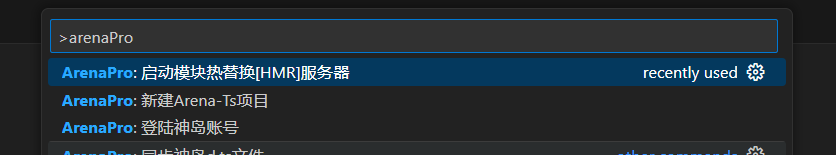
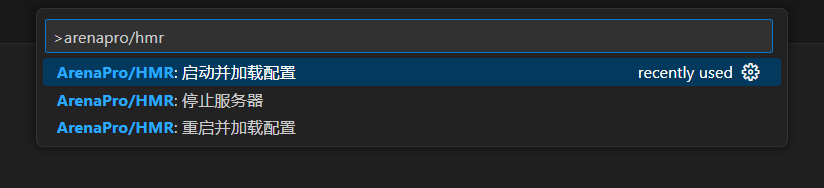
docs(arenapro): 更新文档和快捷键说明
- 在侧边导航栏中添加了单个上传 js 文件的选项
- 在 HelloWorld 指南中添加了构建上传的快捷键说明
- 更新了 HMR 服务器操作指南，明确了如何开启、重启和停止服务器
- 移除了关于重启 HMR 服务器的冗余说明

diff --git a/arenapro/bestPractices/upLoad-js.md b/arenapro/bestPractices/upLoad-js.md
@@ -1,0 +1,14 @@
+# 单个上传js文件
+由于Arena脚本编辑器是直接支持JS文件的运行的，同时为了支持小demo测试，我们特别增设了JS文件上传功能，让创作者能够跳过繁琐的编译环节，直接将当前文件上传至编辑器内使用。
+
+## 上传功能
+在项目中的`JavaScript`文件，右上角会出现上传按钮。点击即可上传，或者使用快捷键上传。
+
+快捷键：`Alt+X`
+
+![](/QQ20241027-154220.png)
+
+## 注意事项
+- 尽管插件对文件类型有所限制，但上传的文件必须严格以`.js`为后缀，否则神岛脚本编辑器可能会出现难以预料的错误，如全部文件丢失等。
+- 上传功能仅支持单个文件上传。若文件有外部引用js文件，你可以选择手动上传依赖文件，或使用[完整编译](/guide/HelloWorld/two-js)及[HMR编译](/guide/hmr)方案。
+- 点击上传按钮后，系统将直接覆盖神岛脚本编辑器内同名文件的所有代码，且不会弹出二次确认提示。因此，请确保上传的文件是所需使用的正确版本。

diff --git a/arenapro/guide/hmr.md b/arenapro/guide/hmr.md
@@ -63,21 +63,16 @@ module.exports = {
 - 在各自工作区开启HMR服务器即可，会自动判断当前工作区，自动切换到对应工作区的配置文件。
 
 
-
-## 如何开启HMR服务器
+## 如何开启/重启/停止HMR服务器
 
 在VSCode中，按下`Shift+Ctrl+P`（Windows/Linux）或 `Shift+Cmd+P`（Mac）调出`命令面板（Command Palette）`。  
   
 ![命令面板](/commd.webp)  
   
-输入`arenapro`，找到 `启动模块热替换服务器[startHMR]`选项并点击。  
+输入`arenapro`，找到 `启动并加载配置[startHMR]`选项并点击。  
 
 ![命令面板](/01734c7b-4e5f-4756-920f-2becd8133bf4.png)  
 
 开启后就可以监听到文件修改了，会自动编译，并上传到神岛。
 
 ![命令面板](/QQ20241024-163837.png)  
-
-
-## 关于重启HMR服务器说明
-当前，由于技术问题，导致无法彻底关闭HMR服务器，所以需要重启vsc编辑器，然后再次开启服务器即可。（`ctrl+shift+p`输入`reload window`）

diff --git a/arenapro/guide/HelloWorld/two-js.md b/arenapro/guide/HelloWorld/two-js.md
@@ -2,6 +2,8 @@
 ## 第一步：构建上传
 在VSCode中，左下角会出现**完整构建Ts->Js**，括号里是**当前项目的根文件夹名称**
 
+快捷键：`Alt+Q`
+
 `注：不是Arena-Ts项目，将不会出现该构建按钮。`
 
 ![](/QQ_1721718659443.png)

diff --git a/arenapro/guide/HelloWorld/two.md b/arenapro/guide/HelloWorld/two.md
@@ -2,6 +2,8 @@
 ## 第一步：构建上传
 在VSCode中，左下角会出现**完整构建Ts->Js**，括号里是**当前项目的根文件夹名称**
 
+快捷键：`Alt+Q`
+
 `注：不是Arena-Ts项目，将不会出现该构建按钮。`
 
 ![](/QQ_1721718659443.png)
